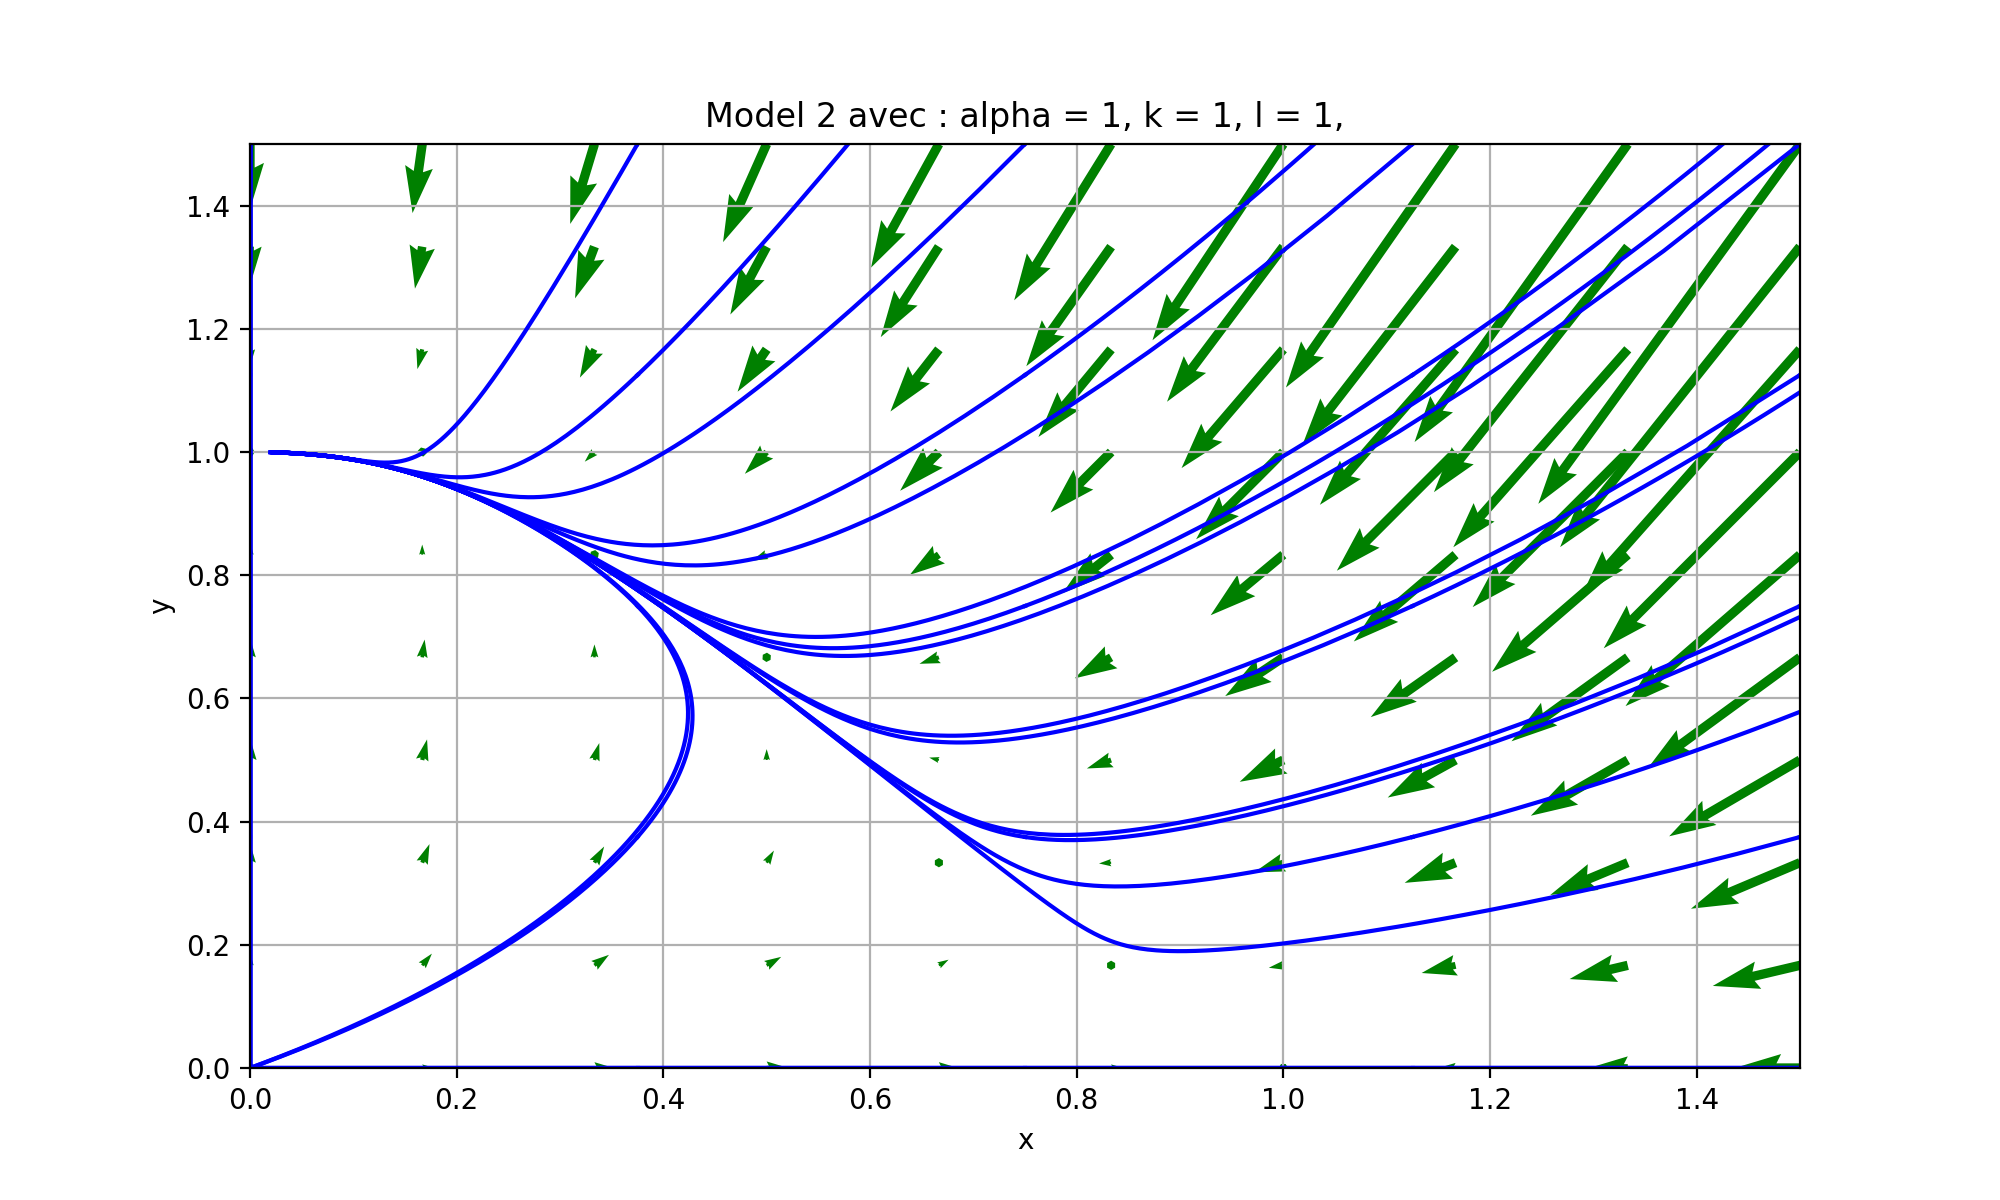
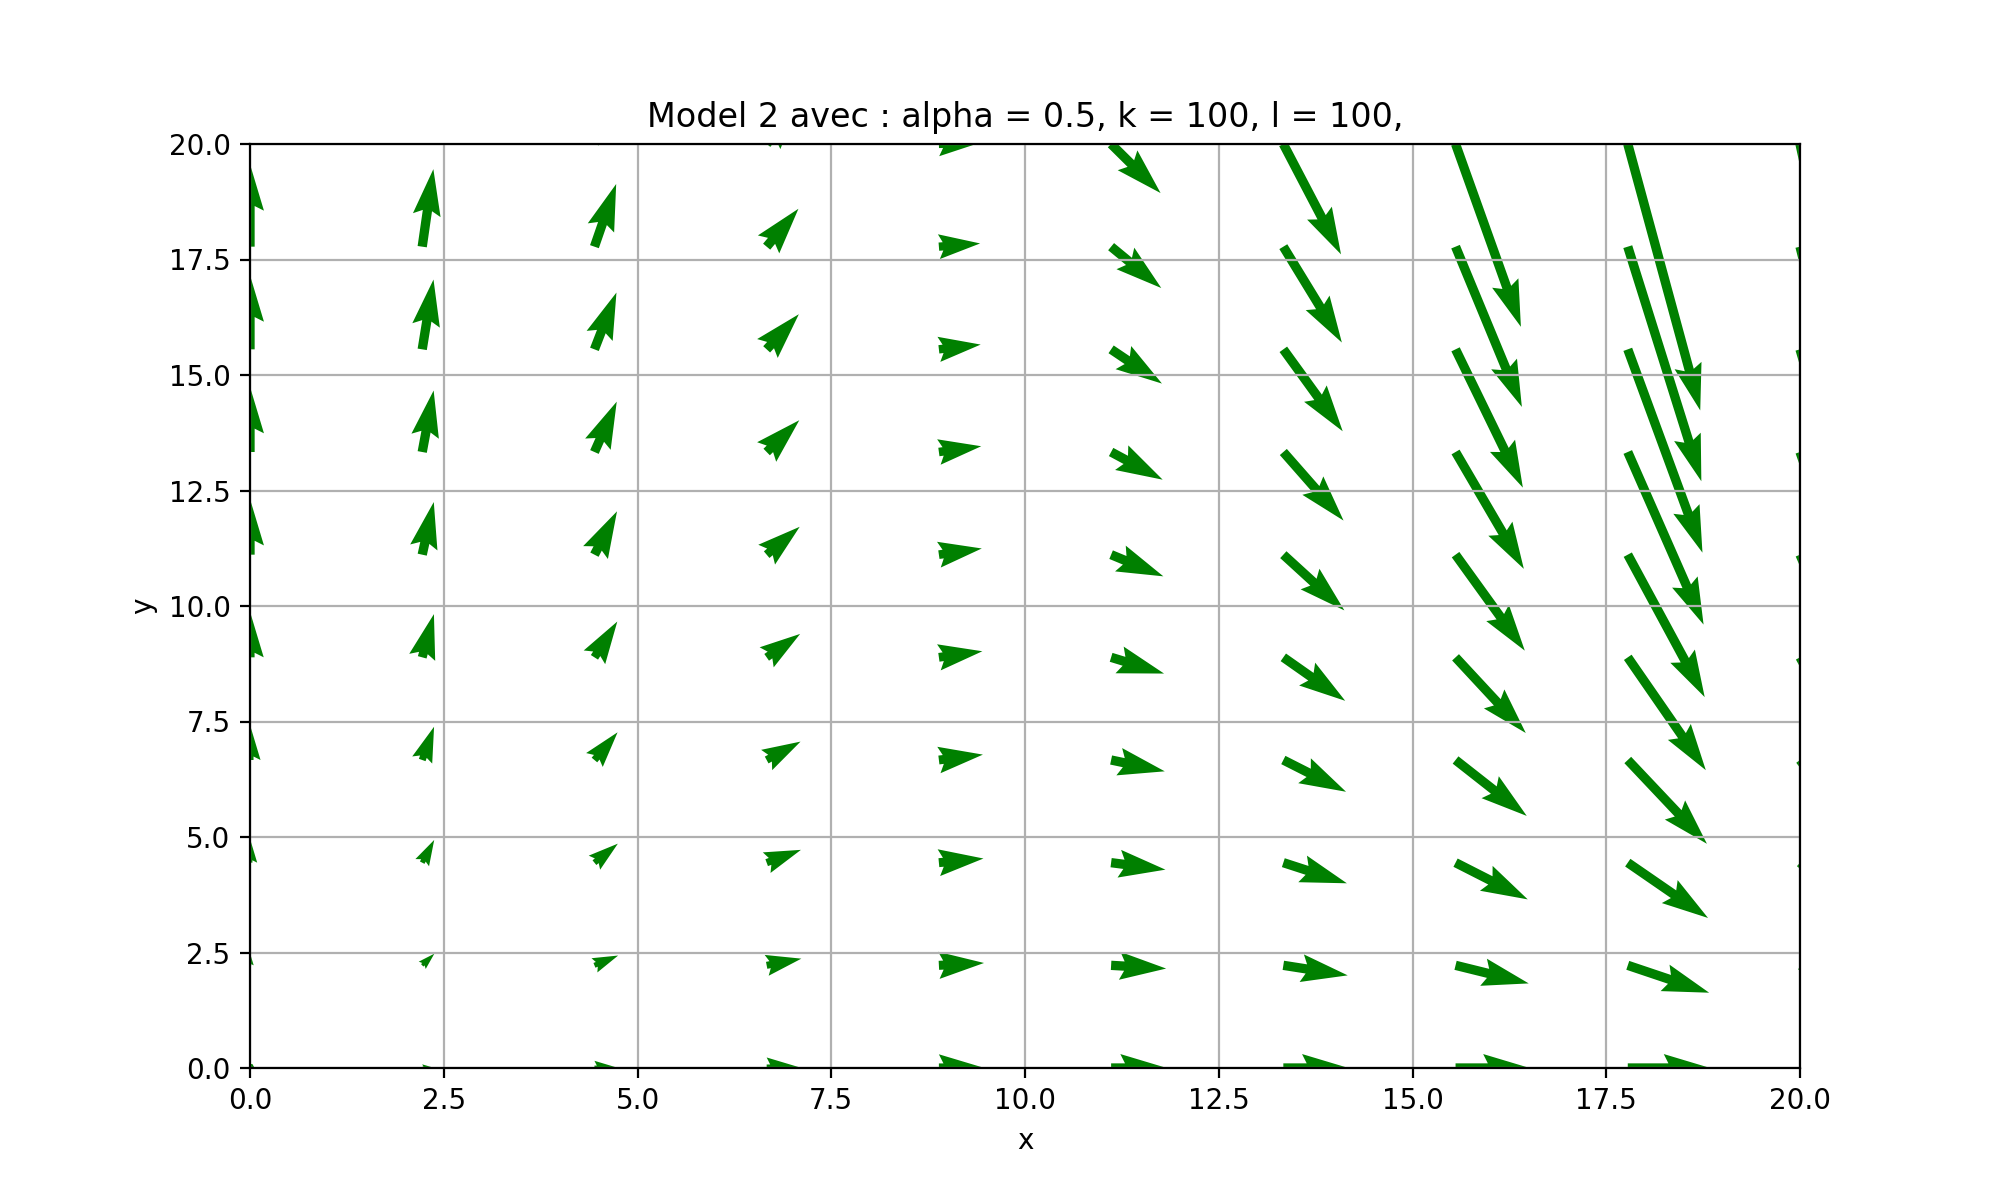
Merge Tristan

diff --git a/grp-2-maint/pysrc/main.py b/grp-2-maint/pysrc/main.py
@@ -10,18 +10,18 @@ from mdl.model2 import Model2
 
 def main():
 
-	alpha = 1
-	k = 1
-	l = 1
-	args = {"alpha": alpha, "k": k, "l": l}
+	alpha = 0.5
+	k = 100
+	l = 100
 
 	# -- Le modele
+	args = {"alpha": alpha, "k": k, "l": l}
 	mdl = Model2(title = "Model 2", args = args)
 
 	# -- Les axes
-	xaxis = Axis(label = "x", inf = 0, sup = 1.5, nbpts = 10)
-	yaxis = Axis(label = "y", inf = 0, sup = 1.5, nbpts = 10)
-	taxis = Axis(inf = -10, sup = 50, nbpts = 1000)
+	xaxis = Axis(label = "x", inf = 0, sup = 20, nbpts = 10)
+	yaxis = Axis(label = "y", inf = 0, sup = 20, nbpts = 10)
+	taxis = Axis(inf = -10, sup = 10, nbpts = 100)
 
 	# -- Couleurs et formes
 	col = Color()
@@ -30,13 +30,13 @@ def main():
 	blue_dashdot = LineStyle(color = col.blue(), form = frm.dash_dot())
 
 	# -- Conditions initiales
-	# cnds = Initials(Lx = [2.0], Ly = [1.0, 2.0], style = red_solid)
-	# cnds.append(coord = (1.5, 0.5), style = blue_dashdot)
-	# cnds.append(coord = (2.5, 3), style = blue_dashdot)
+	cnds = Initials(Lx = [0], Ly = [0], style = blue_dashdot)
+	cnds.append(coord = (0, l), style = blue_dashdot)
+	cnds.append(coord = (k, 0), style = blue_dashdot)
 
 	# -- Portrait des phases
 	phases = PhaseDiag(title = mdl.title)
-	phases.portrait(modl = mdl, xaxis = xaxis, yaxis = yaxis, taxis = taxis, exportpng = True)	#listcnd = cnds, 
+	phases.portrait(modl = mdl, listcnd = cnds, xaxis = xaxis, yaxis = yaxis, taxis = taxis, exportpng = True)	
 
 if __name__ == '__main__':
 	main()
